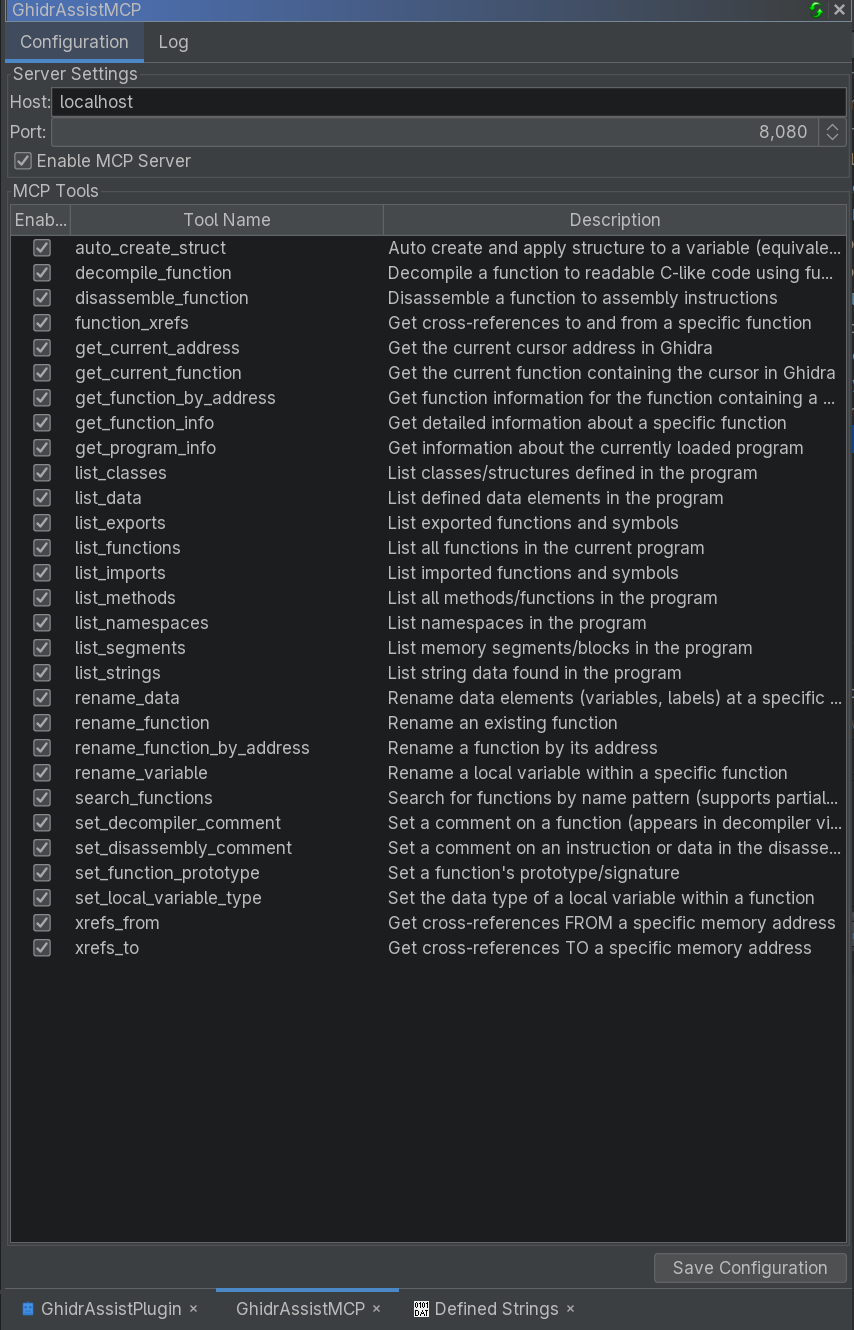
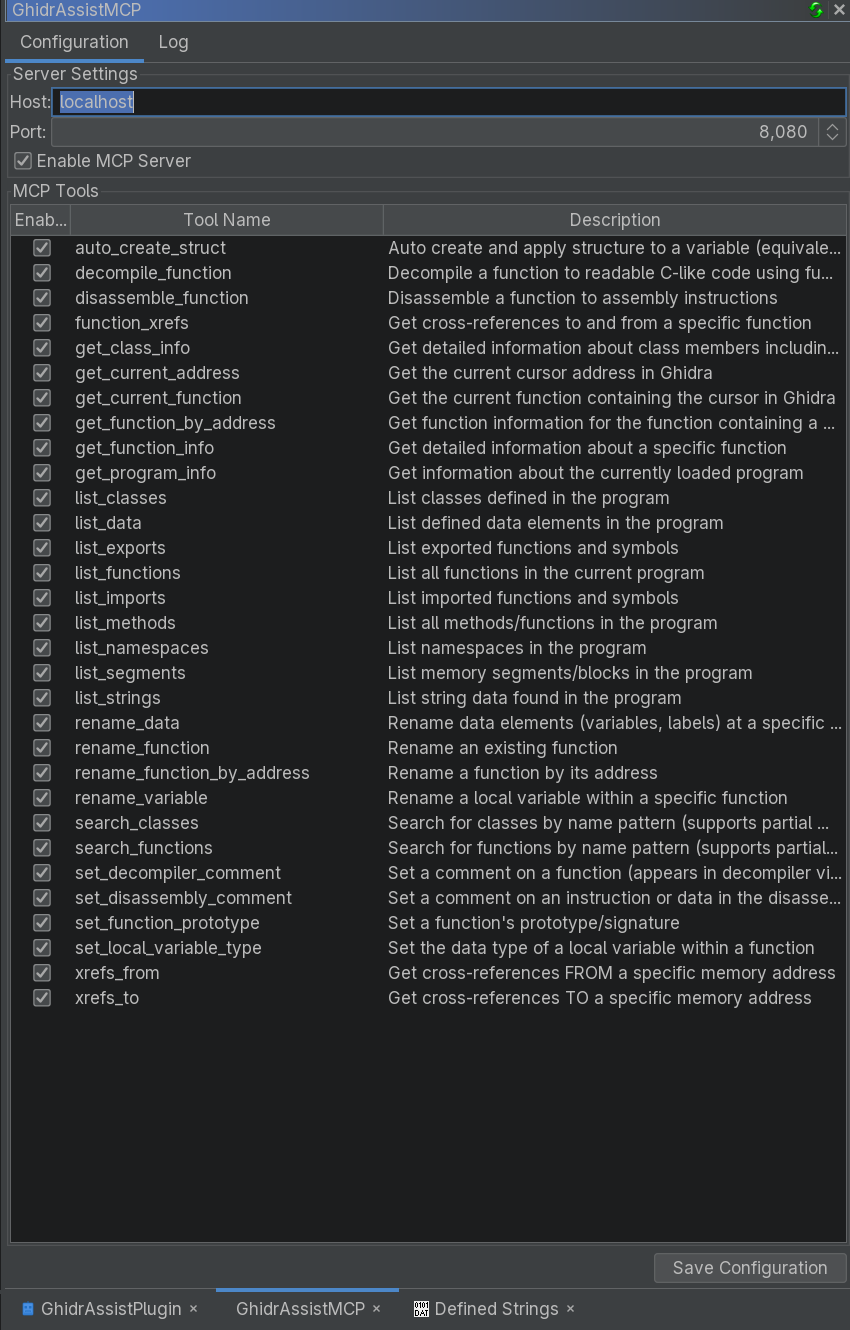
Updated readme and screenshots.

diff --git a/README.md b/README.md
@@ -9,7 +9,7 @@ GhidrAssistMCP bridges the gap between AI-powered analysis tools and Ghidra's co
 ### Key Features
 
 - ** MCP Server Integration**: Full Model Context Protocol server implementation using official SDK
-- ** 29 Built-in Tools**: Comprehensive set of analysis tools covering functions, data, cross-references, and more
+- ** 31 Built-in Tools**: Comprehensive set of analysis tools covering functions, data, cross-references, and more
 - ** Configurable UI**: Easy-to-use interface for managing tools and monitoring activity
 - ** Real-time Logging**: Track all MCP requests and responses with detailed logging
 - ** Dynamic Tool Management**: Enable/disable tools individually with persistent settings
@@ -108,11 +108,13 @@ The Configuration tab allows you to:
 
 #### Function Analysis
 - `get_function_info` - Get detailed function information
+- `get_class_info` - Get detailed class information
 - `get_function_by_address` - Find function at specific address
 - `get_current_function` - Get function at cursor position
 - `decompile_function` - Decompile function to C-like code
 - `disassemble_function` - Get assembly disassembly
 - `search_functions` - Search functions by name pattern
+- `search_classes` - Search classes by name pattern
 - `function_xrefs` - Get function cross-references
 
 #### Location & Navigation
